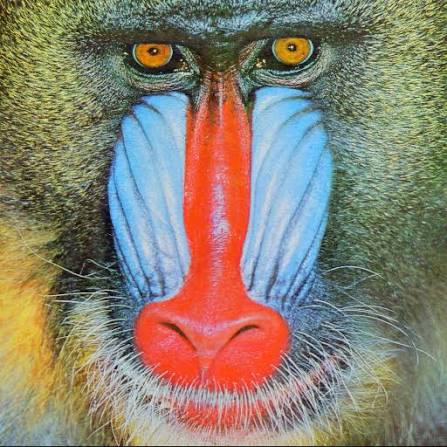
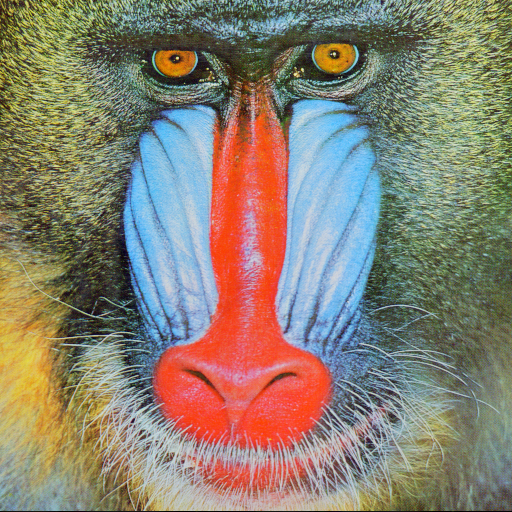
add README.md

diff --git a/README.md b/README.md
@@ -1,1 +1,186 @@
-когда-нибудь здесь будет текст, который я напишу
+# Метод очистки цифровых изображений от стеганографических внедрений для предотвращения утечек информации
+
+Инструментарий для исследования методов стеганографического внедрения информации в цифровые изображения. Проект выполнен в рамках научно-исследовательской работы (НИР) и включает реализацию базовых алгоритмов стеганографии, метрик оценки качества изображений и набор тестовых данных.
+
+**Ссылка на репозиторий:** [github.com/V4L3R1K/NIR](https://github.com/V4L3R1K/NIR)
+
+---
+
+## Архитектура
+
+Проект построен на архитектурном паттерне **MVC (Model-View-Controller)**:
+
+```
+src/
+├── main.cpp                       # Точка входа
+├── controller/                    # Контроллер (Facade)
+│   └── Controller.cpp/h
+├── model/
+│   ├── core/                      # Базовые модели
+│   │   ├── Image.cpp/h            # Работа с изображениями
+│   │   └── Secret.cpp/h           # Обработка секретных данных
+│   ├── steganography/             # Алгоритмы стеганографии
+│   │   ├── base/StegoAlgorithm.h  # Абстрактный базовый класс
+│   │   ├── lsb/LSBEncoder.cpp/h
+│   │   ├── pvd/PVDEncoder.cpp/h
+│   │   ├── dct/DCTEncoder.cpp/h
+│   │   └── dwt/DWTEncoder.cpp/h
+│   └── compare/                   # Метрики сравнения
+│       ├── base/CompareAlgorithm.h
+│       ├── psnr/PSNR.cpp/h
+│       └── ssim/SSIM.cpp/h
+└── view/
+    └── cli/                       # CLI-интерфейс
+        ├── CLIParser.cpp/h
+        └── Command.h
+```
+
+**Ключевые архитектурные решения:**
+
+- **Паттерн «Стратегия»** — все алгоритмы стеганографии и сравнения реализуют общий интерфейс, что позволяет легко добавлять новые алгоритмы
+- **Паттерн «Фасад»** — контроллер `Controller` предоставляет единую точку входа для всех операций
+- **Помехоустойчивое кодирование** — секретные данные защищаются кодами Рида — Соломона (Reed-Solomon) с возможностью коррекции до 16 ошибок на блок
+
+---
+
+## Реализованные алгоритмы
+
+### Стеганографические алгоритмы
+
+| Алгоритм | Метод | Особенности |
+|----------|-------|-------------|
+| **LSB** (Least Significant Bit) | Замена младших бит пикселей | Регулируемое количество бит (1–8), максимальная скорость |
+| **PVD** (Pixel Value Differencing) | Внедрение в разность соседних пикселей | Адаптивная ёмкость: больше данных в текстурированных областях |
+| **DCT** (Discrete Cosine Transform) | Внедрение в частотную область (JPEG) | Устойчивость к сжатию, управление качеством JPEG |
+| **DWT** (Discrete Wavelet Transform) | Вейвлет-преобразование Хаара | Многоуровневая декомпозиция, выбор субдиапазонов |
+
+### Метрики качества
+
+| Метрика | Описание |
+|---------|----------|
+| **PSNR** (Peak Signal-to-Noise Ratio) | Классическая метрика на основе среднеквадратической ошибки (MSE) |
+| **SSIM** (Structural Similarity Index) | Метрика структурного сходства, коррелирующая с субъективным восприятием |
+
+---
+
+## Использование
+
+```
+Usage: NIR [options]
+
+Options:
+  -h, --help          Show this help message and exit
+
+Mode (one required):
+  -E                  Encode mode — encode secret into container
+  -D                  Decode mode — decode secret from container
+  -C                  Compare mode — compare two images
+
+Algorithm:
+  -A <name>           Steganography algorithm: LSB, PVD, DCT, DWT
+                      Compare algorithm:       PSNR, SSIM
+
+Input / Output:
+  -i <path>           Input container image path (for -E, -D)
+                      Second -i is used as second image for -C
+  -s <path>           Secret file path (for -E)
+  -o <path>           Output file path (stego image / extracted secret)
+
+Tuning (optional):
+  --lsb-count <N>     Number of LSB bits to use (default: 2)
+  --pvd-count <N>     Number of PVD bits to use (default: 1)
+  --jpeg-quality <N>  JPEG quality for output for DCT (default: 90)
+  --capacity          Print container capacity in bytes and exit
+
+Examples:
+  # Encode secret into container using LSB
+  NIR -E -A LSB -i container.png -s secret.txt -o stego.png
+
+  # Decode secret from stego image
+  NIR -D -A LSB -i stego.png -o extracted.txt
+
+  # Compare two images
+  NIR -C -A PSNR -i original.png -i modified.png
+
+  # Show container capacity
+  NIR -E -A LSB -i container.png --capacity
+```
+
+---
+
+## Сборка
+
+### Требования
+
+- CMake ≥ 3.20
+- Компилятор с поддержкой C++17 (GCC, Clang, MSVC)
+- Библиотека libjpeg
+- OpenMP
+
+### Сборка
+
+```bash
+mkdir build && cd build
+cmake ..
+make
+```
+
+Или с использованием скрипта:
+
+```bash
+./build.sh
+```
+
+После сборки бинарный файл `NIR` будет доступен в корневой директории проекта.
+
+---
+
+## Внешние зависимости
+
+| Библиотека | Назначение | Лицензия |
+|------------|------------|----------|
+| **[stb_image.h](https://github.com/nothings/stb)** | Загрузка изображений (BMP, JPEG, PNG, TGA, PSD, GIF, HDR, PIC, PNM) | Public Domain (MIT) |
+| **[stb_image_write.h](https://github.com/nothings/stb)** | Сохранение изображений (BMP, JPEG, PNG, TGA) | Public Domain (MIT) |
+| **[libcorrect](https://github.com/quiet/libcorrect)** | Коды Рида — Соломона для помехоустойчивого кодирования | BSD-3-Clause |
+| **libjpeg** | Кодирование/декодирование JPEG | Custom (BSD-like) |
+| **OpenMP** | Распараллеливание вычислений | — |
+
+Все нужные части кода (кроме libjpeg и OpenMP) включены в репозиторий в директории `third_party/`.
+
+---
+
+## Тестовые изображения
+
+Сформирован репрезентативный набор тестовых изображений, охватывающий 6 категорий и 13 подкатегорий:
+
+- **benchmark** — классические тестовые изображения (Baboon, Lenna, Peppers)
+- **city** — городские сцены (архитектура, линии зданий)
+- **documents** — отсканированные документы и текст (scans, text)
+- **natural** — природные сцены (flowers, landscapes, water)
+- **smooth** — однородные изображения и градиенты (solid colors, gradients)
+- **textured** — текстуры (brick, fabric, foliage, wood)
+
+Каждое изображение представлено в трёх форматах: **BMP**, **JPEG** и **PNG**.
+
+Структура хранения:
+
+```
+tests/images/
+├── bmp/
+│   ├── benchmark/
+│   ├── city/
+│   ├── documents/
+│   ├── natural/
+│   ├── smooth/
+│   └── textured/
+├── jpg/
+│   └── ...
+└── png/
+    └── ...
+```
+
+---
+
+## Лицензия
+
+Проект распространяется под лицензией **GNU General Public License v3.0**. Подробнее см. файл [LICENSE](LICENSE).